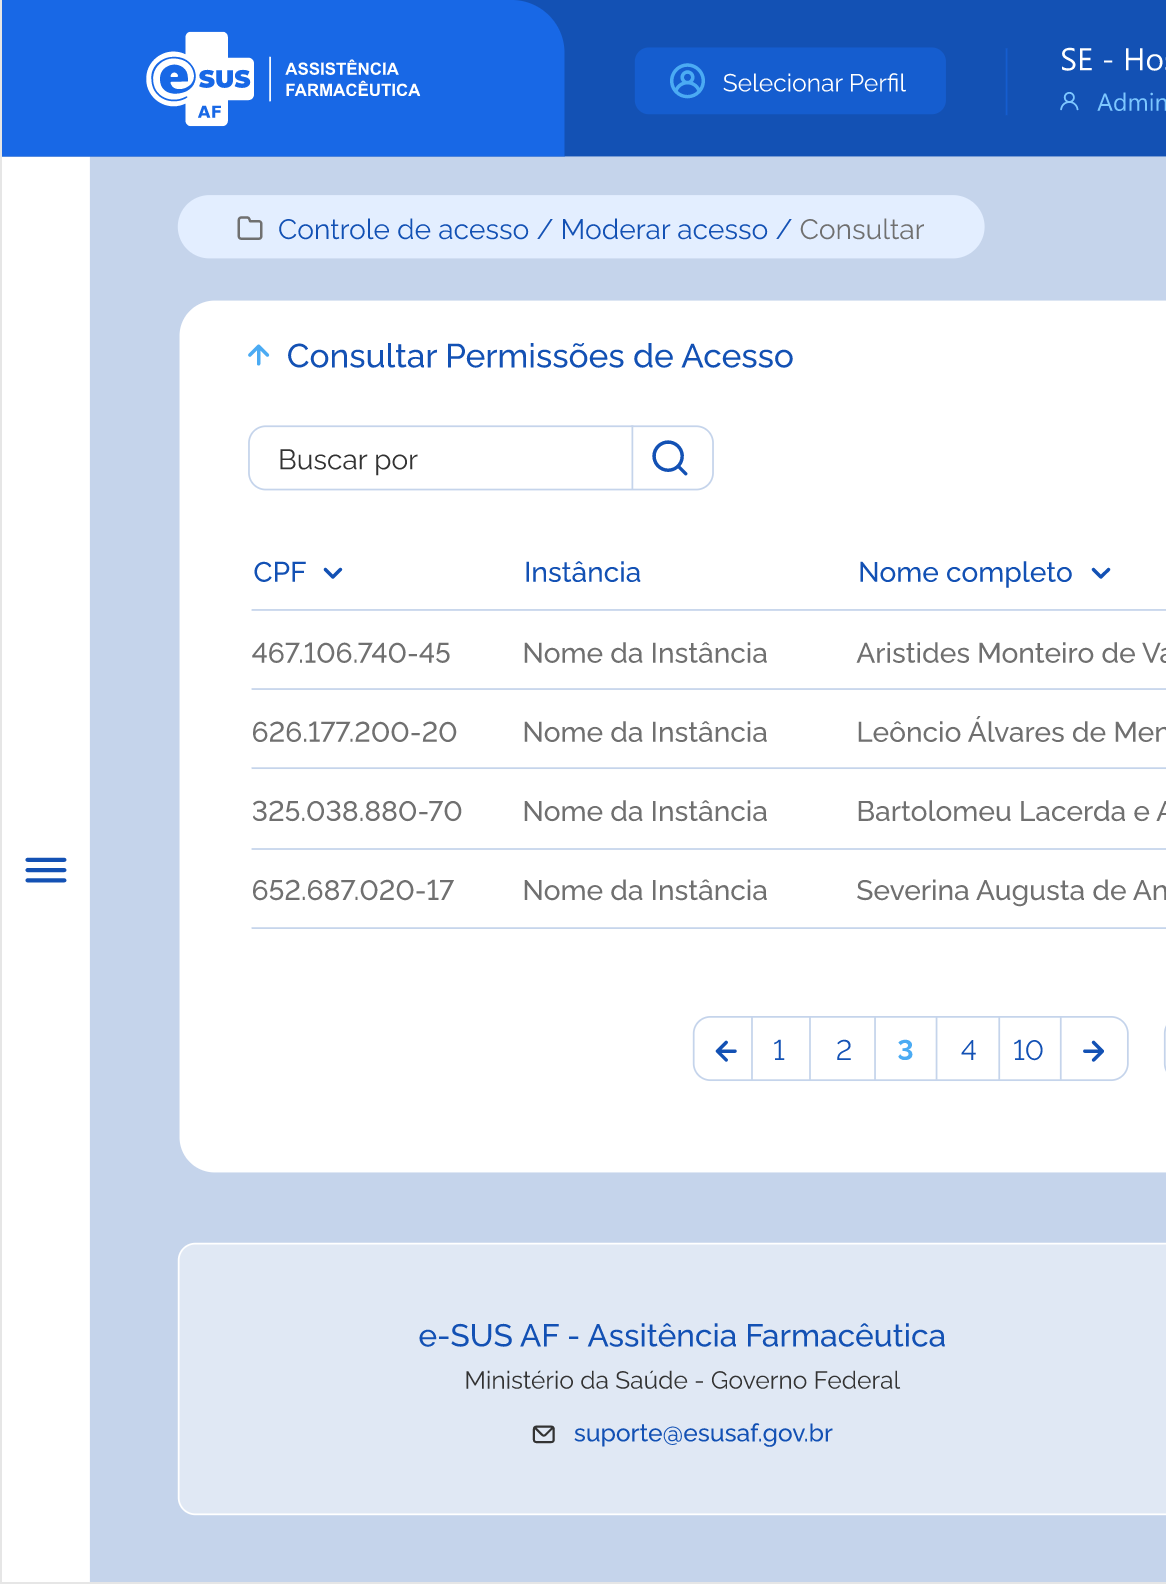
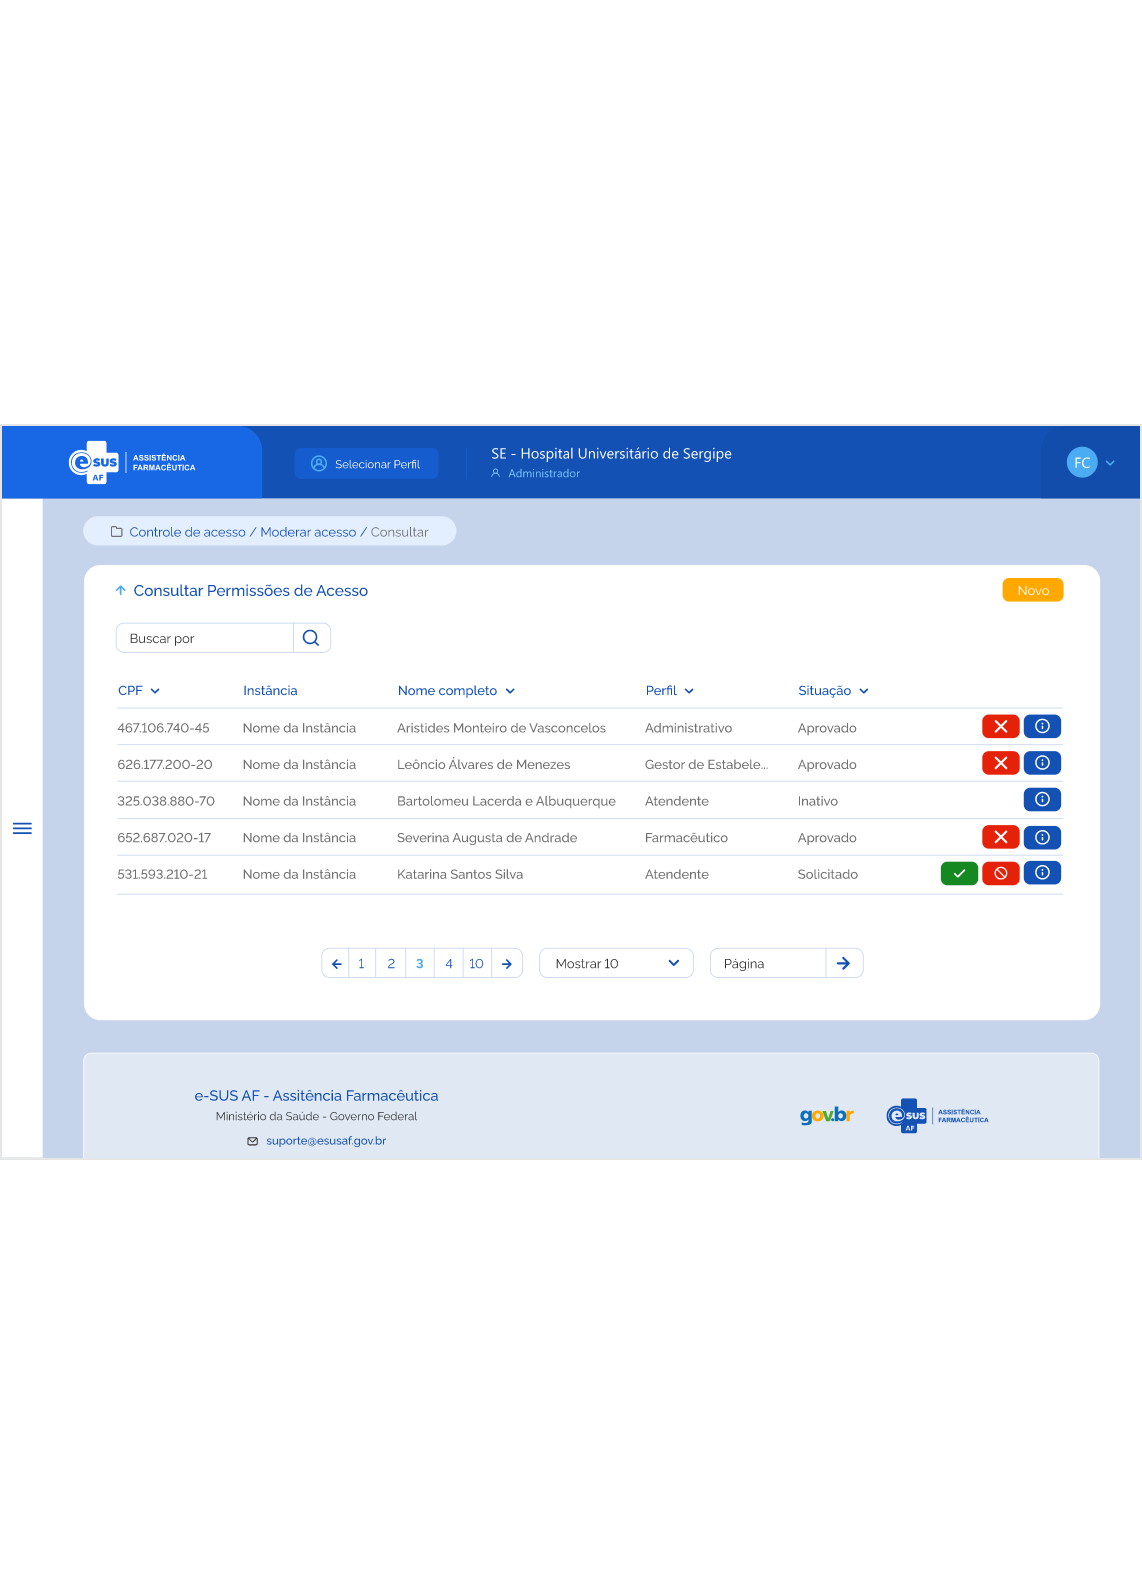
Atualização de imagens

diff --git a/docs/EspecificacoesTecnicas/ETE009.md b/docs/EspecificacoesTecnicas/ETE009.md
@@ -4,7 +4,7 @@
 Como usuário quero detalhar os dados do meu perfil de acesso ao sistema. 
 
 ## Protótipo 001
-![alt text](../imagens/)
+![alt text](../imagens/ETE009-Prot1-Detalhar-Meu-Perfil.png)
 
 ### Acesso
 Controle de Acesso > “Solicitar Perfil” > “Consultar Meus Perfis” quando acionar a opção “Detalhar”
@@ -40,7 +40,7 @@ Controle de Acesso > “Solicitar Perfil” > “Consultar Meus Perfis” quando
 4. Quando o usuário acionar a opção “Sair”, o sistema deve finalizar o detalhamento e retornar à tela de “Consultar Meus Perfis”. [ETE004](ETE004.md).
 
 ## Protótipo 004
-[Inserir imagem]<!-- ![alt text](../imagens/ete-009-prot-004.png) -->
+![alt text](../imagens/ETE009-Prot4-Detalhar-Meu-Perfil.png)
 
 ### Acesso
 Controle de Acesso > “Solicitar Perfil” > “Consultar Meus Perfis” quando acionar a opção “Detalhar” 

diff --git a/docs/EspecificacoesTecnicas/ETE006.md b/docs/EspecificacoesTecnicas/ETE006.md
@@ -4,7 +4,7 @@
 Como usuário quero detalhar os dados de uma permissão de acesso ao sistema. 
 
 ## Protótipo 001
-![alt text](../imagens/.png)
+![alt text](../imagens/ETE006-Prot1-Detalhar-Permissao-de-Acesso.png)
 
 ### Acesso
 Controle de acesso > Moderar acesso > Consultar permissões de acesso > “Detalhar”
@@ -37,7 +37,7 @@ Controle de acesso > Moderar acesso > Consultar permissões de acesso > “Detal
 3. Quando o usuário acionar a opção “Sair”, o sistema deve finalizar o detalhamento e retornar à tela de “Consultar Permissões de Acesso”. [ETE004](ETE004.md) 
 
 ## Protótipo 004
-![alt text](../imagens/ete-006-prot-004.png)
+![alt text](../imagens/ETE006-Prot3-Detalhar-Permissao-de-Acesso.png)
 
 ### Acesso
 Controle de acesso > Moderar acesso > Consultar permissões de acesso > “Detalhar”

diff --git a/docs/EspecificacoesTecnicas/ETE004.md b/docs/EspecificacoesTecnicas/ETE004.md
@@ -39,7 +39,7 @@ Menu lateral > Controle de acesso > Moderar acesso
 11. O sistema deve gravar a data, hora e CPF e nome do usuário que a executou qualquer ação de alteração no estado do registro. [RGN005](DocumentoDeRegrasv2.md#rgn005).
 
 ## Protótipo 002
-![alt text](../imagens/ete-004-prot-002.png)
+![alt text](../imagens/ETE004-Prot2-Consultar-Permissoes-de-Acesso.png)
 
 ### Descrição resumida
 Como usuário desejo redefinir minha senha para acesso ao sistema e suas funcionalidades.
